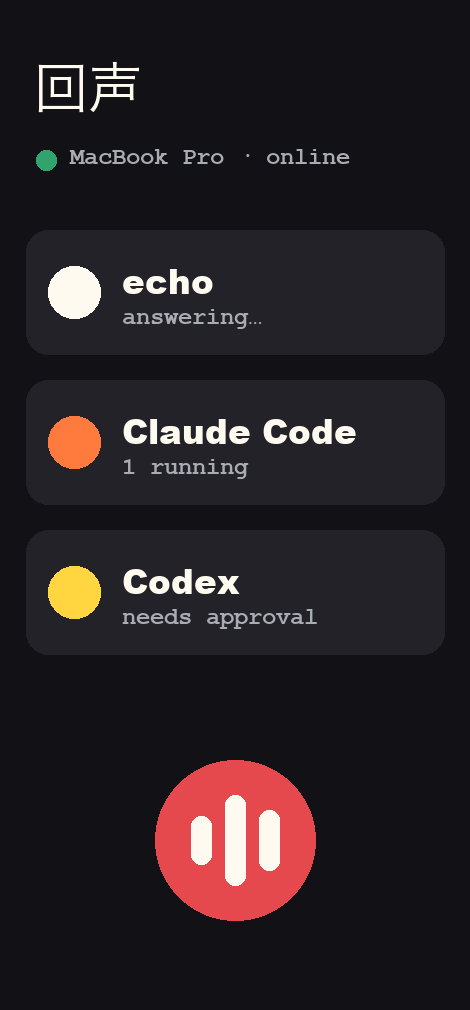
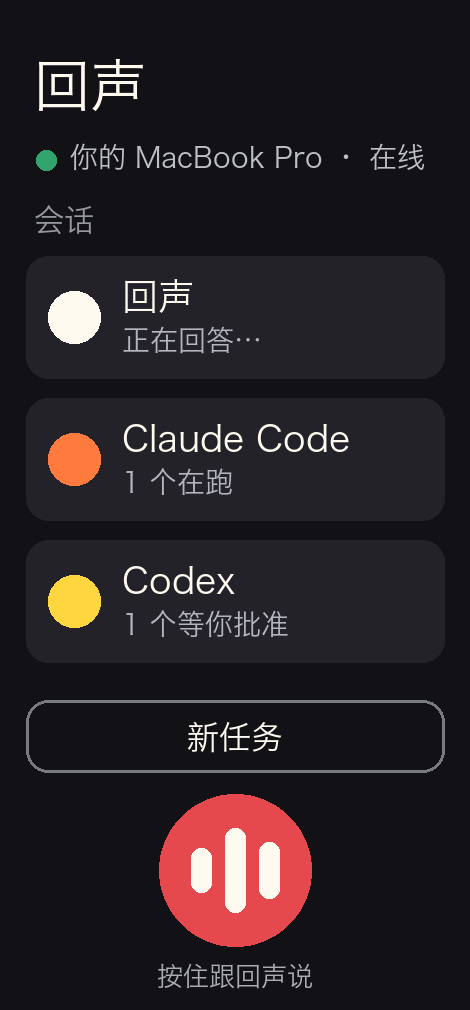
feat(scene): replace placeholder print with real copy
Every grey-bar filler in the scene textures is gone:
- press clippings carry a real paragraph each; the Hypha clipping and the
  hiring poster use the public avatar instead of a silhouette
- the desk newspaper prints three real stories (AI, research, industry)
  with source, date and summary
- the phone shows the Echo mobile home screen copy
- the PreUni cover lists real note topics

Also strip the arXiv boilerplate prefix from news summaries.

The rendered styles are not part of this commit; they are regenerated
together with the pending scene changes.

diff --git a/002/pipeline/textures.py b/002/pipeline/textures.py
@@ -9,12 +9,13 @@
 import json
 import math
 import random
+import re
 import sys
 from functools import lru_cache
 from pathlib import Path
 
 import numpy as np
-from PIL import Image, ImageDraw, ImageFilter, ImageFont
+from PIL import Image, ImageDraw, ImageFilter, ImageFont, ImageOps
 
 from make_wallpaper import render as wallpaper
 
@@ -23,7 +24,7 @@ FONTS = {
     "impact": SUP + "Impact.ttf", "black": SUP + "Arial Black.ttf", "hand": SUP + "Bradley Hand Bold.ttf",
     "marker": "/System/Library/Fonts/MarkerFelt.ttc", "mono": SUP + "Courier New Bold.ttf", "serif": SUP + "Times New Roman Bold.ttf",
     "din": SUP + "DIN Condensed Bold.ttf", "slab": SUP + "Rockwell.ttc", "cjk": "/System/Library/Fonts/Hiragino Sans GB.ttc",
-    "sans": "/System/Library/Fonts/HelveticaNeue.ttc",
+    "sans": "/System/Library/Fonts/HelveticaNeue.ttc", "body": SUP + "Georgia.ttf",
 }
 INK, PAPER, NEWS = (24, 24, 28), (255, 250, 240), (238, 232, 216)
 RED, BLUE, YELLOW, GREEN, PINK, ORANGE = (229, 72, 77), (43, 107, 228), (255, 214, 64), (48, 164, 108), (255, 170, 196), (255, 122, 61)
@@ -47,23 +48,49 @@ def paper(w, h, color, grain=7, seed=0):
     return Image.fromarray(a.astype(np.uint8)).filter(ImageFilter.GaussianBlur(0.6))
 
 
-def greek(d, box, rng, lh=14, color=(70, 68, 66), cols=1, gap=18):
-    """假正文：一行行长短不一的灰条。"""
+def wrap(d, text, fnt, width):
+    """按宽度折行：英文按词，中文按字。"""
+    lines, line = [], ""
+    for token in re.findall(r"[A-Za-z0-9'’\-.,:;!?%$¥()\"/×·+&]+|\s+|.", text):
+        token = " " if token.isspace() else token
+        if d.textlength(line + token, font=fnt) > width and line.strip():
+            lines.append(line.rstrip())
+            line = token.lstrip()
+        else:
+            line += token
+    if line.strip():
+        lines.append(line.rstrip())
+    return lines
+
+
+def body(d, box, text, name="body", size=25, fill=(44, 42, 40), gap=1.24, max_lines=99):
+    """在框里排一段真实正文；放不下的行直接不画（不拿灰条充数）。返回排完后的 y。"""
     x0, y0, x1, y1 = box
-    cw = (x1 - x0 - gap * (cols - 1)) / cols
-    for c in range(cols):
-        y, cx = y0, x0 + c * (cw + gap)
-        while y + lh * 0.5 < y1:
-            x = cx
-            while x < cx + cw - 8:
-                ww = min(rng.uniform(14, 60), cx + cw - x)
-                d.rectangle((x, y, x + ww, y + lh * 0.42), fill=color)
-                x += ww + rng.uniform(5, 9)
-            y += lh
+    fnt, y = font(name, size), y0
+    for ln in wrap(d, text, fnt, x1 - x0)[:max_lines]:
+        if y + size > y1:
+            break
+        d.text((x0, y), ln, font=fnt, fill=fill)
+        y += size * gap
+    return y
 
 
-def halftone(w, h, seed, tint=INK, bg=NEWS, kind="city"):
-    """小幅“新闻照片”：先画灰度构图，再打成网点。"""
+def dots(gray, tint, bg):
+    """灰度数组（0..1，1 = 亮）→ 报纸网点图。"""
+    h, w = gray.shape
+    cell = max(5, w // 46)
+    yy, xx = np.mgrid[0:h, 0:w]
+    u, v = (xx * 0.707 + yy * 0.707) / cell, (-xx * 0.707 + yy * 0.707) / cell
+    dist = np.hypot(u - np.floor(u) - 0.5, v - np.floor(v) - 0.5)
+    mask = (dist < np.sqrt(np.clip(1 - gray, 0, 1)) * 0.62)[..., None]
+    return Image.fromarray(np.where(mask, np.array(tint, np.uint8), np.array(bg, np.uint8)).astype(np.uint8))
+
+
+def halftone(w, h, seed, tint=INK, bg=NEWS, kind="city", image=None):
+    """“新闻照片”。给了 image 就用真图打网点；否则按 kind 画一个图标式的构图。"""
+    if image is not None:
+        src = ImageOps.autocontrast(ImageOps.fit(image.convert("L"), (w, h), Image.LANCZOS, centering=(0.5, 0.4)), cutoff=2)
+        return dots(np.asarray(src, np.float32) / 255, tint, bg)
     rng = random.Random(seed)
     g = Image.new("L", (w, h), 200)
     d = ImageDraw.Draw(g)
@@ -84,16 +111,14 @@ def halftone(w, h, seed, tint=INK, bg=NEWS, kind="city"):
         d.polygon([(w * 0.3, h * 0.15), (w * 0.7, h * 0.15), (w * 0.6, h * 0.55), (w * 0.4, h * 0.55)], fill=40)
         d.rectangle((w * 0.47, h * 0.55, w * 0.53, h * 0.75), fill=40)
         d.rectangle((w * 0.36, h * 0.75, w * 0.64, h * 0.86), fill=30)
+    elif kind == "podium":
+        for i, (x0, top, label) in enumerate(((0.16, 0.50, "2"), (0.39, 0.30, "1"), (0.62, 0.62, "3"))):
+            d.rectangle((w * x0, h * top, w * (x0 + 0.22), h), fill=(60, 30, 85)[i])
+            d.text((w * (x0 + 0.11), h * (top + 0.16)), label, font=font("black", int(h * 0.2)), fill=240, anchor="mm")
     elif kind == "person":
         d.ellipse((w * 0.36, h * 0.14, w * 0.64, h * 0.52), fill=40)
         d.ellipse((w * 0.12, h * 0.56, w * 0.88, h * 1.5), fill=30)
-    a = np.asarray(g.filter(ImageFilter.GaussianBlur(1.2)), np.float32) / 255
-    cell = max(5, w // 46)
-    yy, xx = np.mgrid[0:h, 0:w]
-    u, v = (xx * 0.707 + yy * 0.707) / cell, (-xx * 0.707 + yy * 0.707) / cell
-    dist = np.hypot(u - np.floor(u) - 0.5, v - np.floor(v) - 0.5)
-    dots = (dist < np.sqrt(np.clip(1 - a, 0, 1)) * 0.62)[..., None]
-    return Image.fromarray(np.where(dots, np.array(tint, np.uint8), np.array(bg, np.uint8)).astype(np.uint8))
+    return dots(np.asarray(g.filter(ImageFilter.GaussianBlur(1.2)), np.float32) / 255, tint, bg)
 
 
 def stick(dst, src, center, angle=0.0, shadow=10):
@@ -121,6 +146,12 @@ def card(w, h, color=PAPER, border=0, seed=0):
 
 
 ASSETS = Path(__file__).resolve().parent.parent / "site/assets"
+
+
+def avatar():
+    """旧站公开使用的头像；仓库里没有 001 时返回 None，退回剪影。"""
+    f = ASSETS.parent.parent.parent / "001/public/profile.jpg"
+    return Image.open(f) if f.exists() else None
 
 
 def photo(pid):
@@ -273,29 +304,23 @@ def board(w=2400, h=1176):
 
 
 # ───────────────────────── 剪报 / 海报 ─────────────────────────
-def clipping(headline, sub, kind, seed, w=640, h=820, masthead="THE DAILY ECHO"):
-    rng = random.Random(seed)
+def clipping(headline, sub, kind, seed, text, w=640, h=820, masthead="THE DAILY ECHO", image=None):
+    """一张剪报：报头、大标题、导语、配图，下面是一段真实的报道正文。"""
     im = paper(w, h, NEWS, grain=9, seed=seed)
     d = ImageDraw.Draw(im)
     d.text((w / 2, 44), masthead, font=font("serif", 46), fill=INK, anchor="mm")
     d.rectangle((24, 76, w - 24, 80), fill=INK)
     d.rectangle((24, 86, w - 24, 88), fill=INK)
-    y, words, line = 104, headline.split(), ""
-    f = font("impact", 74)
-    for wd_ in words + [None]:
-        trial = (line + " " + wd_).strip() if wd_ else None
-        if wd_ is None or d.textlength(trial, font=f) > w - 56:
-            d.text((28, y), line, font=f, fill=INK)
-            y += 78
-            line = wd_ or ""
-        else:
-            line = trial
+    y, f = 104, font("impact", 70)
+    for line in wrap(d, headline, f, w - 56):
+        d.text((28, y), line, font=f, fill=INK)
+        y += 74
     d.text((28, y + 6), sub, font=fit(d, sub, "mono", w - 56, 26), fill=RED)
-    y += 50
-    ph = int(h * 0.30)
-    im.paste(halftone(w - 56, ph, seed, kind=kind), (28, y))
+    y += 48
+    ph = int(h * 0.23)
+    im.paste(halftone(w - 56, ph, seed, kind=kind, image=image), (28, y))
     d.rectangle((28, y, w - 29, y + ph), outline=INK, width=3)
-    greek(d, (28, y + ph + 22, w - 28, h - 26), rng, cols=3)
+    body(d, (28, y + ph + 16, w - 28, h - 20), text, size=25)
     return im
 
 
@@ -306,7 +331,7 @@ def poster(w=640, h=900):
     d.text((w / 2, 112), "HIRE!", font=font("slab", 150), fill=INK, anchor="mm")
     d.rectangle((40, 196, w - 40, 204), fill=INK)
     d.text((w / 2, 244), "OPEN TO OPPORTUNITIES", font=fit(d, "OPEN TO OPPORTUNITIES", "impact", w - 90, 60), fill=RED, anchor="mm")
-    im.paste(halftone(w - 200, 330, 5, bg=(240, 222, 178), kind="person"), (100, 290))
+    im.paste(halftone(w - 200, 330, 5, bg=(240, 222, 178), kind="person", image=avatar()), (100, 290))
     d.rectangle((100, 290, w - 101, 620), outline=INK, width=5)
     d.text((w / 2, 672), "EVAN JIA", font=font("black", 74), fill=INK, anchor="mm")
     d.text((w / 2, 742), "AI PM × AGENT BUILDER", font=font("din", 54), fill=INK, anchor="mm")
@@ -356,7 +381,7 @@ def zine(title, issue, tagline, bg, accent, motif, w=660, h=900):
         for i, c in enumerate(((255, 255, 255), (255, 244, 200), (255, 255, 255))):
             ox = (i - 1) * 46
             d.rectangle((cx - 150 + ox, cy - 190 + i * 30, cx + 150 + ox, cy + 150 + i * 30), fill=c, outline=INK, width=6)
-        greek(d, (cx - 100, cy - 90, cx + 170, cy + 150), random.Random(issue), lh=30, color=(60, 60, 70))
+        lines_text(d, (cx - 96, cy - 84), "Pointers & malloc\nLinked lists\nRecursion\nShell + regex\nMIPS basics", "hand", 36, fill=(40, 40, 52), spacing=1.26)
     d.rectangle((0, h - 120, w, h), fill=INK)
     d.text((w / 2, h - 60), tagline, font=fit(d, tagline, "din", w - 50, 60), fill=YELLOW, anchor="mm")
     d.rectangle((0, 0, w - 1, h - 1), outline=INK, width=6)
@@ -436,21 +461,26 @@ def screen(w=1600, h=1000):
 
 
 def phone(w=470, h=1010):
+    """回声手机端的首页，文案和官网手机版页面一致。"""
     im = Image.new("RGB", (w, h), (18, 18, 22))
     d = ImageDraw.Draw(im)
-    d.text((34, 60), "回声", font=font("cjk", 54), fill=PAPER)
+    d.text((34, 56), "回声", font=font("cjk", 56), fill=PAPER)
     d.ellipse((36, 150, 56, 170), fill=GREEN)
-    d.text((70, 144), "MacBook Pro · online", font=font("mono", 24), fill=(170, 172, 180))
-    for i, (a, b, col) in enumerate((("echo", "answering…", PAPER), ("Claude Code", "1 running", ORANGE), ("Codex", "needs approval", YELLOW))):
-        y = 230 + i * 150
-        d.rounded_rectangle((26, y, w - 26, y + 124), radius=22, fill=(34, 34, 40))
-        d.ellipse((48, y + 36, 100, y + 88), fill=col)
-        d.text((122, y + 26), a, font=font("black", 34), fill=PAPER)
-        d.text((122, y + 74), b, font=font("mono", 24), fill=(170, 172, 180))
-    d.ellipse((w / 2 - 80, h - 250, w / 2 + 80, h - 90), fill=RED)
+    d.text((70, 143), "你的 MacBook Pro · 在线", font=font("cjk", 28), fill=(190, 192, 200))
+    d.text((34, 204), "会话", font=font("cjk", 30), fill=(150, 152, 160))
+    for i, (a, b, col) in enumerate((("回声", "正在回答…", PAPER), ("Claude Code", "1 个在跑", ORANGE), ("Codex", "1 个等你批准", YELLOW))):
+        y = 256 + i * 142
+        d.rounded_rectangle((26, y, w - 26, y + 122), radius=22, fill=(34, 34, 40))
+        d.ellipse((48, y + 35, 100, y + 87), fill=col)
+        d.text((122, y + 22), a, font=font("cjk", 36), fill=PAPER)
+        d.text((122, y + 70), b, font=font("cjk", 28), fill=(180, 182, 190))
+    d.rounded_rectangle((26, 700, w - 26, 772), radius=22, outline=(120, 122, 130), width=3)
+    d.text((w / 2, 736), "新任务", font=font("cjk", 32), fill=PAPER, anchor="mm")
+    d.ellipse((w / 2 - 76, h - 216, w / 2 + 76, h - 64), fill=RED)
     for i, k in enumerate((0.4, 0.75, 0.5)):
         bx = w / 2 + (i - 1) * 34
-        d.rounded_rectangle((bx - 10, h - 170 - 60 * k, bx + 10, h - 170 + 60 * k), radius=10, fill=PAPER)
+        d.rounded_rectangle((bx - 10, h - 140 - 56 * k, bx + 10, h - 140 + 56 * k), radius=10, fill=PAPER)
+    d.text((w / 2, h - 34), "按住跟回声说", font=font("cjk", 26), fill=(170, 172, 180), anchor="mm")
     return im
 
 
@@ -475,47 +505,35 @@ def small_papers(out):
 
 
 def newspaper(w=780, h=1020):
-    """桌上那份报纸：头条取自导入的新闻（每个分类一条），没有新闻数据时用占位标题。"""
+    """桌上那份报纸：AI、研究、行业各一条真实新闻（标题、来源、日期、摘要），取自导入的新闻数据。"""
     f = ASSETS / "data/news.json"
     items = json.loads(f.read_text())["items"] if f.exists() else []
-    heads = []
-    for cat in ("ai", "research", "industry", "global"):
-        hit = next((n["title"] for n in items if n["category"] == cat and n["title"].isascii()), None)
-        if hit:
-            heads.append((cat.upper(), hit))
-    heads = heads or [("AI", "Fresh headlines land here once the news import has run")]
-    rng = random.Random(90)
+    # 只取 AI / 研究 / 行业三类：这是一份 AI 报纸，国际时政留给新闻面板
+    stories = [n for cat in ("ai", "research", "industry") for n in [next((x for x in items if x["category"] == cat and x["title"].isascii()), None)] if n]
     im = paper(w, h, NEWS, grain=9, seed=90)
     d = ImageDraw.Draw(im)
     d.text((w / 2, 62), "AI DAILY", font=font("serif", 104), fill=INK, anchor="mm")
     d.rectangle((26, 122, w - 26, 128), fill=INK)
     d.text((30, 136), "EVAN'S NEWS DESK", font=font("mono", 22), fill=INK)
-    d.text((w - 30, 136), "AI · RESEARCH · INDUSTRY · GLOBAL", font=font("mono", 22), fill=RED, anchor="ra")
+    d.text((w - 30, 136), stories[0]["date"] if stories else "", font=font("mono", 22), fill=RED, anchor="ra")
     d.rectangle((26, 168, w - 26, 170), fill=INK)
-    y = 186
-    for i, (cat, title) in enumerate(heads[:3]):
-        fs = 60 if i == 0 else 38
-        fnt, line, words = font("impact" if i == 0 else "black", fs), "", title.split()
-        d.rectangle((30, y + 4, 30 + d.textlength(cat, font=font("din", 26)) + 16, y + 34), fill=RED)
-        d.text((38, y + 5), cat, font=font("din", 26), fill=PAPER)
-        y += 42
-        rows = 0
-        for wd_ in words + [None]:
-            trial = (line + " " + wd_).strip() if wd_ else None
-            if wd_ is None or d.textlength(trial, font=fnt) > w - 60:
-                if rows < (3 if i == 0 else 2):
-                    d.text((30, y), line, font=fnt, fill=INK)
-                    y += fs + 4
-                    rows += 1
-                line = wd_ or ""
-            else:
-                line = trial
-        if i == 0:
-            im.paste(halftone(w - 60, 210, 91, kind="city"), (30, y + 8))
-            d.rectangle((30, y + 8, w - 31, y + 218), outline=INK, width=3)
-            y += 236
-        greek(d, (30, y + 4, w - 30, min(h - 24, y + (120 if i == 0 else 76))), rng, cols=3)
-        y += 136 if i == 0 else 92
+    y = 184
+    for i, n in enumerate(stories):
+        if y > h - 150:
+            break
+        tag = n["category"].upper()
+        d.rectangle((30, y + 2, 30 + d.textlength(tag, font=font("din", 26)) + 16, y + 32), fill=RED)
+        d.text((38, y + 3), tag, font=font("din", 26), fill=PAPER)
+        d.text((w - 30, y + 6), f"{n['source']} · {n['date']}", font=font("mono", 20), fill=(90, 88, 84), anchor="ra")
+        y += 40
+        fs = 52 if i == 0 else 36
+        fnt = font("impact" if i == 0 else "black", fs)
+        for line in wrap(d, n["title"], fnt, w - 60)[: 3 if i == 0 else 2]:
+            d.text((30, y), line, font=fnt, fill=INK)
+            y += fs + 4
+        y = body(d, (30, y + 4, w - 30, h - 24), n["summary"], size=25, max_lines=6 if i == 0 else 5) + 12
+        d.line((30, y, w - 30, y), fill=(150, 146, 138), width=2)
+        y += 12
     return im
 
 
@@ -569,12 +587,18 @@ def facade(seed, wall, w=512, h=1024, cols=10, rows=26):
 def main(out):
     out.mkdir(parents=True, exist_ok=True)
     board().save(out / "board.png")
-    clips = [("ECHO AGENT MAKES THE 61.7K-STAR LIST", "Featured 5 days after first commit", "bars"),
-             ("ATHENA TAKES SUSQUEHANNA PRIZE", "UNSW × Mistral AI × Atlassian", "cup"),
-             ("TEEN CEO HITS ¥100K IN ONE DAY", "Hypha · 7-person team · age 17", "person"),
-             ("TOP 3 AT FEISHU AI CHALLENGE", "Lark Loom · full-stack track", "city")]
-    for i, (hl, sub, kind) in enumerate(clips):
-        clipping(hl, sub, kind, 20 + i, h=820 if i % 2 == 0 else 720).save(out / f"clip_{i}.png")
+    clips = [
+        ("ECHO AGENT MAKES THE 61.7K-STAR LIST", "Featured 5 days after first commit", "bars", None,
+         "SHANGHAI — Echo Agent, a voice AI agent for Mac built by Evan Jia and a team of four, was added to GitHub's 61.7k-star list of Chinese indie developer projects on 29 September, five days after its first commit. Press Fn+Space in any app, say it, and Echo hands the work to Claude Code and Codex on your own machine. Version 0.1.38 shipped within two weeks."),
+        ("ATHENA TAKES SUSQUEHANNA PRIZE", "UNSW × Mistral AI × Atlassian", "cup", None,
+         "SYDNEY — Athena, a Discord agent that chases project updates and writes them into a live knowledge graph, won the Susquehanna Prize at the UNSW × Mistral AI × Atlassian Hackathon. Jia led product architecture and final integration; the team built it in 24 hours. Every team's answers land in one graph, so contradictions between teams surface on their own."),
+        ("TEEN CEO HITS ¥100K IN ONE DAY", "Hypha · 7-person team · age 17", "person", avatar(),
+         "BEIJING — At 17, Evan Jia founded Hypha and led a team of seven across engineering, art and legal. Its core digital-collectible product passed ¥100,000 in revenue in a single day. He owned the roadmap, the architecture and most of the backend, and took community growth from zero to a paying audience."),
+        ("TOP 3 AT FEISHU AI CHALLENGE", "Lark Loom · full-stack track", "podium", None,
+         "Lark Loom, a chat-native project coordination agent, finished in the top three of the AI full-stack track at ByteDance's Feishu AI Campus Challenge. It routes between two models, calls functions, and keeps six kinds of memory in a Bitable-backed store so a three-person team could build against stable contracts."),
+    ]
+    for i, (hl, sub, kind, image, text) in enumerate(clips):
+        clipping(hl, sub, kind, 20 + i, text, h=820 if i % 2 == 0 else 760, image=image).save(out / f"clip_{i}.png")
     poster().save(out / "poster.png")
     zine("ECHO AGENT", 1, "SPEAK. IT'S DONE.", (255, 122, 61), INK, "bars").save(out / "zine_echo.png")
     zine("ROUNDTABLE", 2, "AGENTS, ASSEMBLE.", (88, 166, 255), RED, "table").save(out / "zine_roundtable.png")

diff --git a/002/pipeline/sync_news.py b/002/pipeline/sync_news.py
@@ -27,9 +27,12 @@ ATOM = "{http://www.w3.org/2005/Atom}"
 DC_DATE = "{http://purl.org/dc/elements/1.1/}date"
 
 
+ARXIV_PREFIX = re.compile(r"^arXiv:\S+\s+Announce Type:\s*\S+\s+Abstract:\s*", re.I)
+
+
 def clip(text, limit):
-    """去标签、压空白、截断。"""
-    plain = re.sub(r"\s+", " ", html.unescape(re.sub(r"<[^>]+>", " ", text or ""))).strip()
+    """去标签、压空白、去掉 arXiv 摘要的固定前缀、截断。"""
+    plain = ARXIV_PREFIX.sub("", re.sub(r"\s+", " ", html.unescape(re.sub(r"<[^>]+>", " ", text or ""))).strip())
     return plain if len(plain) <= limit else plain[: limit - 1] + "…"
 
 

diff --git a/002/tests/test_sync_news.py b/002/tests/test_sync_news.py
@@ -34,6 +34,7 @@ class Helpers(unittest.TestCase):
         self.assertEqual(clip("<i>a</i>\n  b", 10), "a b")
         self.assertEqual(len(clip("x" * 500, 200)), 200)
         self.assertEqual(clip(None, 5), "")
+        self.assertEqual(clip("arXiv:2610.03872v1 Announce Type: new Abstract: AI agents are here.", 80), "AI agents are here.")
 
     def test_to_date(self):
         self.assertEqual(to_date("Tue, 06 Oct 2026 10:00:00 GMT"), "2026-10-06")
